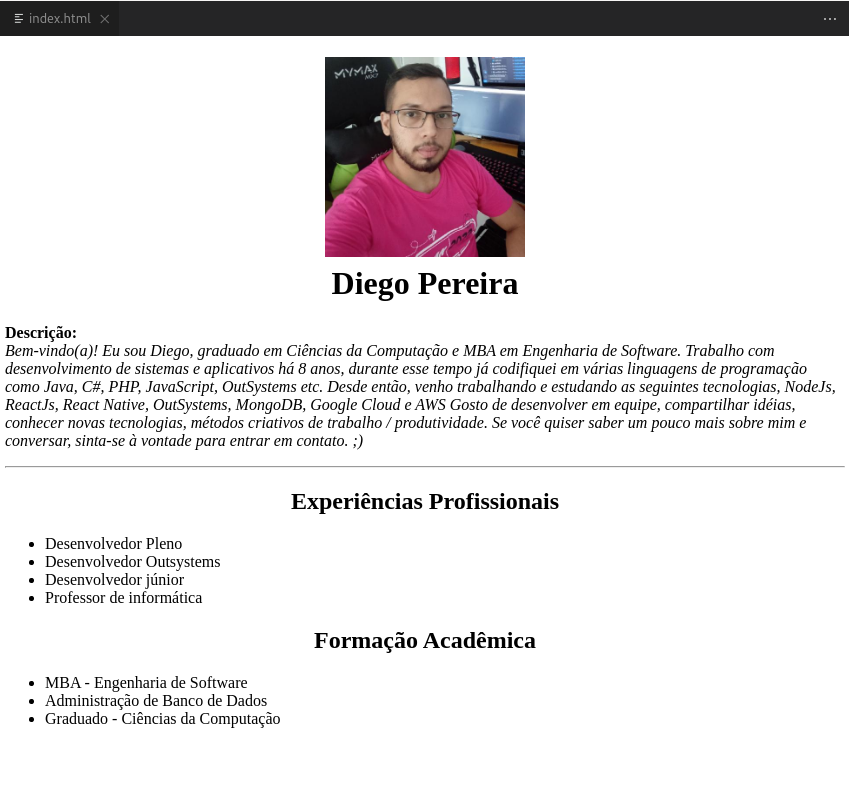
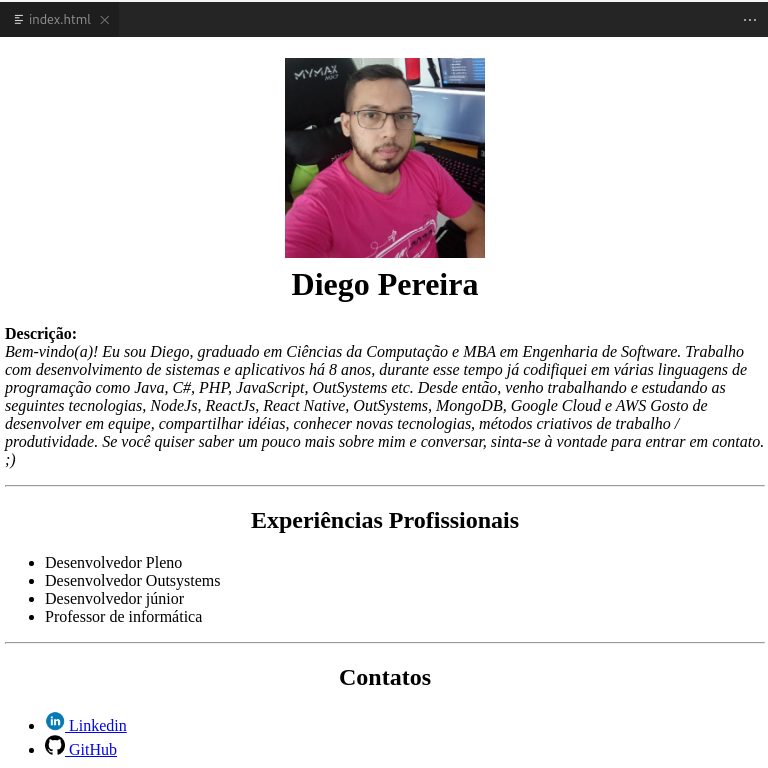
HTML

diff --git a/index.html b/index.html
@@ -54,16 +54,29 @@
                     <li>Professor de informática</li>
                 </ul>
             </section>
+        </main>
 
+        <hr>
+
+        <footer>
             <section>
-                <h2 align="center">Formação Acadêmica</h2>
+                <h2 align="center">Contatos</h2>
                 <ul>
-                    <li>MBA - Engenharia de Software</li>
-                    <li>Administração de Banco de Dados</li>
-                    <li>Graduado - Ciências da Computação</li>
+                    <li>
+                        <a href="https://www.linkedin.com/in/diegopereirati/">
+                            <img src="./assets/linkedin.png" alt="github" width="20">
+                            Linkedin
+                        </a>
+                    </li>
+                    <li>
+                        <a href="https://github.com/dhiegopereira">
+                            <img src="./assets/github.png" alt="github" width="20">
+                            GitHub
+                        </a>
+                    </li>
                 </ul>
             </section>
-        </main>
+        </footer>
 
     </body>
 

diff --git a/README.md b/README.md
@@ -201,20 +201,32 @@ EX da tag `<img>`:
                     <li>Professor de informática</li>
                 </ul>
             </section>
-
-            <section>
-                <h2 align="center">Formação Acadêmica</h2>
-                <ul>
-                    <li>MBA - Engenharia de Software</li>
-                    <li>Administração de Banco de Dados</li>
-                    <li>Graduado - Ciências da Computação</li>
-                </ul>
-            </section>
         </main>
 
-    </body>
+        <hr>
 
+        <footer>
+            <section>
+                <h2 align="center">Contatos</h2>
+                <ul>
+                    <li>
+                        <a href="https://www.linkedin.com/in/diegopereirati/">
+                            <img src="./assets/linkedin.png" alt="github" width="20">
+                            Linkedin
+                        </a>
+                    </li>
+                    <li>
+                        <a href="https://github.com/dhiegopereira">
+                            <img src="./assets/github.png" alt="github" width="20">
+                            GitHub
+                        </a>
+                    </li>
+                </ul>
+            </section>
+        </footer>
+    </body>
 </html>
+
 ```
 
 > Navegador:
